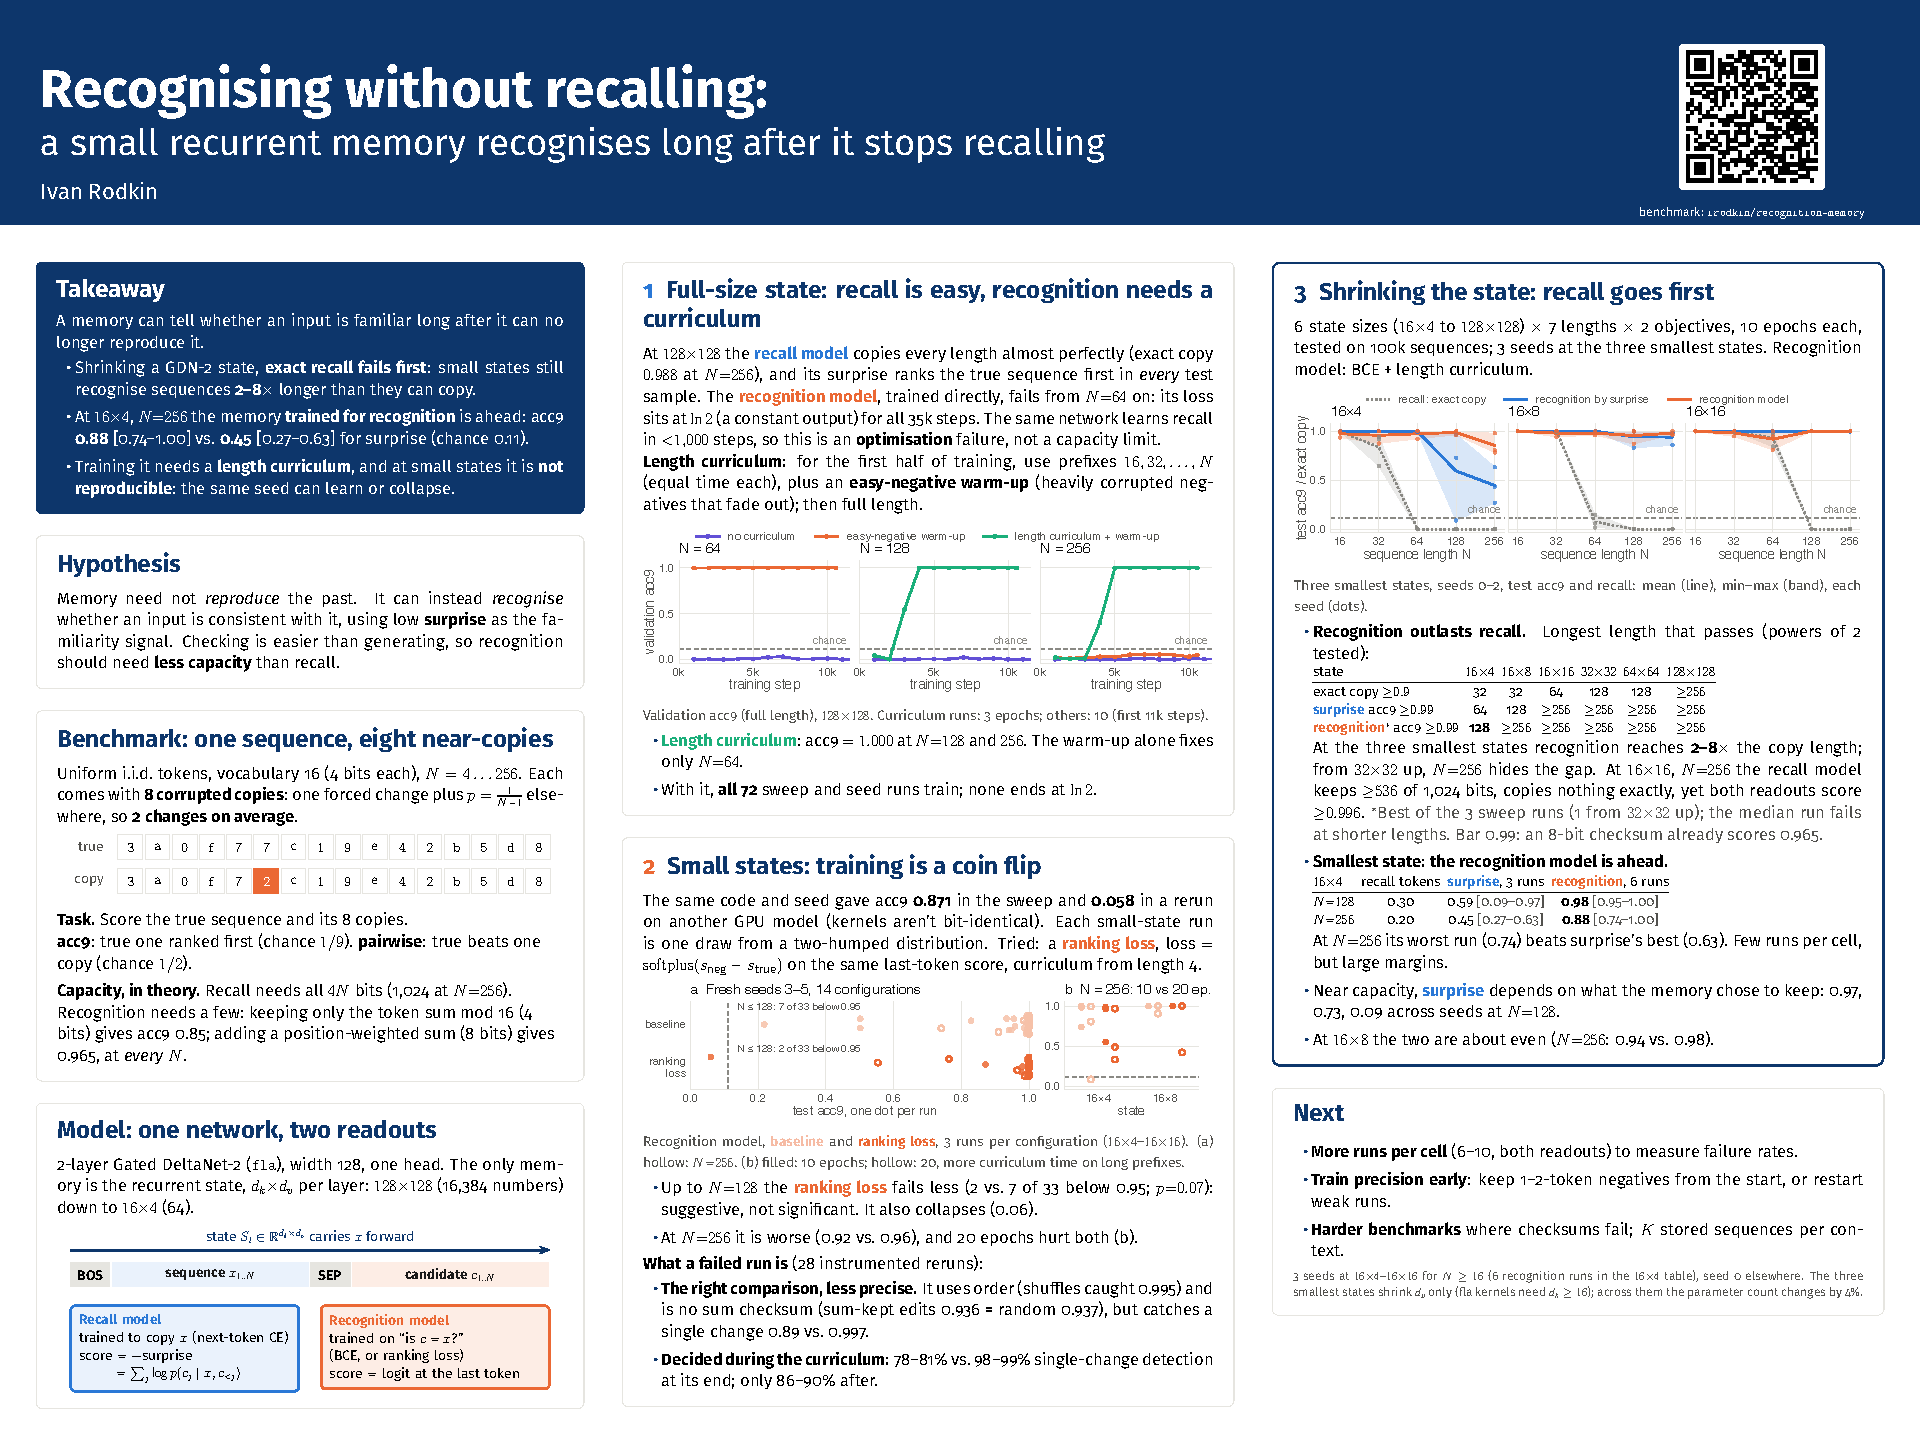
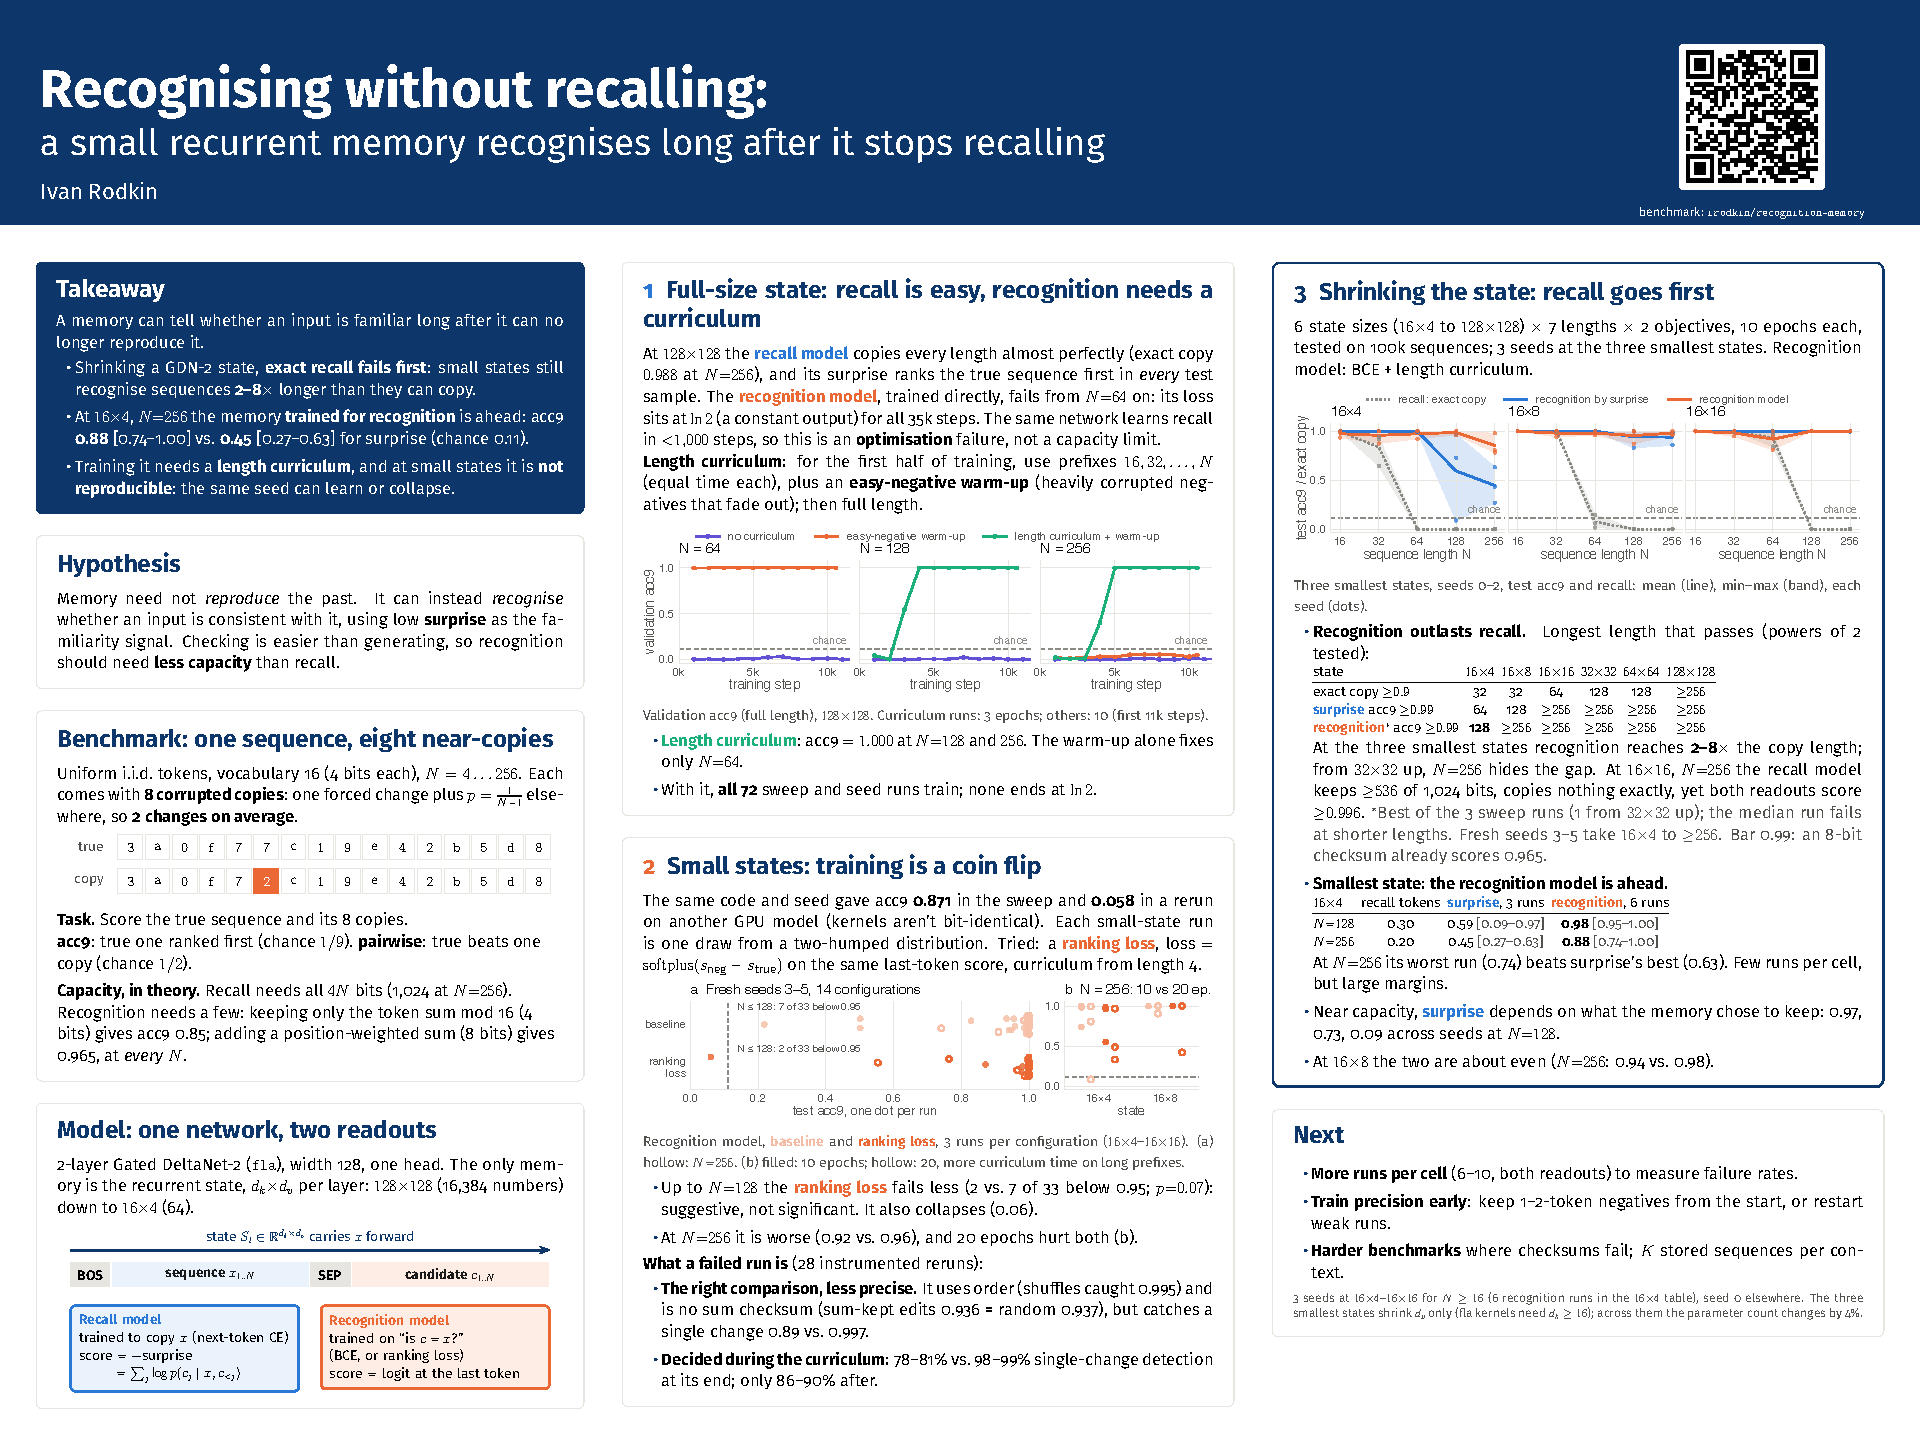
Poster: note fresh seeds take 16x4 recognition to >=256

Changed region(s): [[0.6562, 0.5625, 0.9688, 0.9062]]

diff --git a/posters/neurips_poster.tex b/posters/neurips_poster.tex
@@ -203,7 +203,7 @@
           \end{tabular}}\\[0.15em]
           At the three smallest states recognition reaches \textbf{2--8$\times$} the copy length; from $32{\times}32$ up, $N{=}256$ hides the gap.
           At $16{\times}16$, $N{=}256$ the recall model keeps ${\ge}536$ of 1{,}024 bits, copies nothing exactly, yet both readouts score ${\ge}0.996$.
-          {\color{ink2}$^{*}$Best of the 3 sweep runs (1 from $32{\times}32$ up); the median run fails at shorter lengths. Bar 0.99: an 8-bit checksum already scores 0.965.}
+          {\color{ink2}$^{*}$Best of the 3 sweep runs (1 from $32{\times}32$ up); the median run fails at shorter lengths. Fresh seeds 3--5 take $16{\times}4$ to ${\ge}256$. Bar 0.99: an 8-bit checksum already scores 0.965.}
     \item \textbf{Smallest state: the recognition model is ahead.} \\[0.1em]
           {\small\begin{tabular}{@{}lccc@{}}
             $16{\times}4$ & recall tokens & \RC{surprise}, 3 runs & \RG{recognition}, 6 runs \\ \midrule
